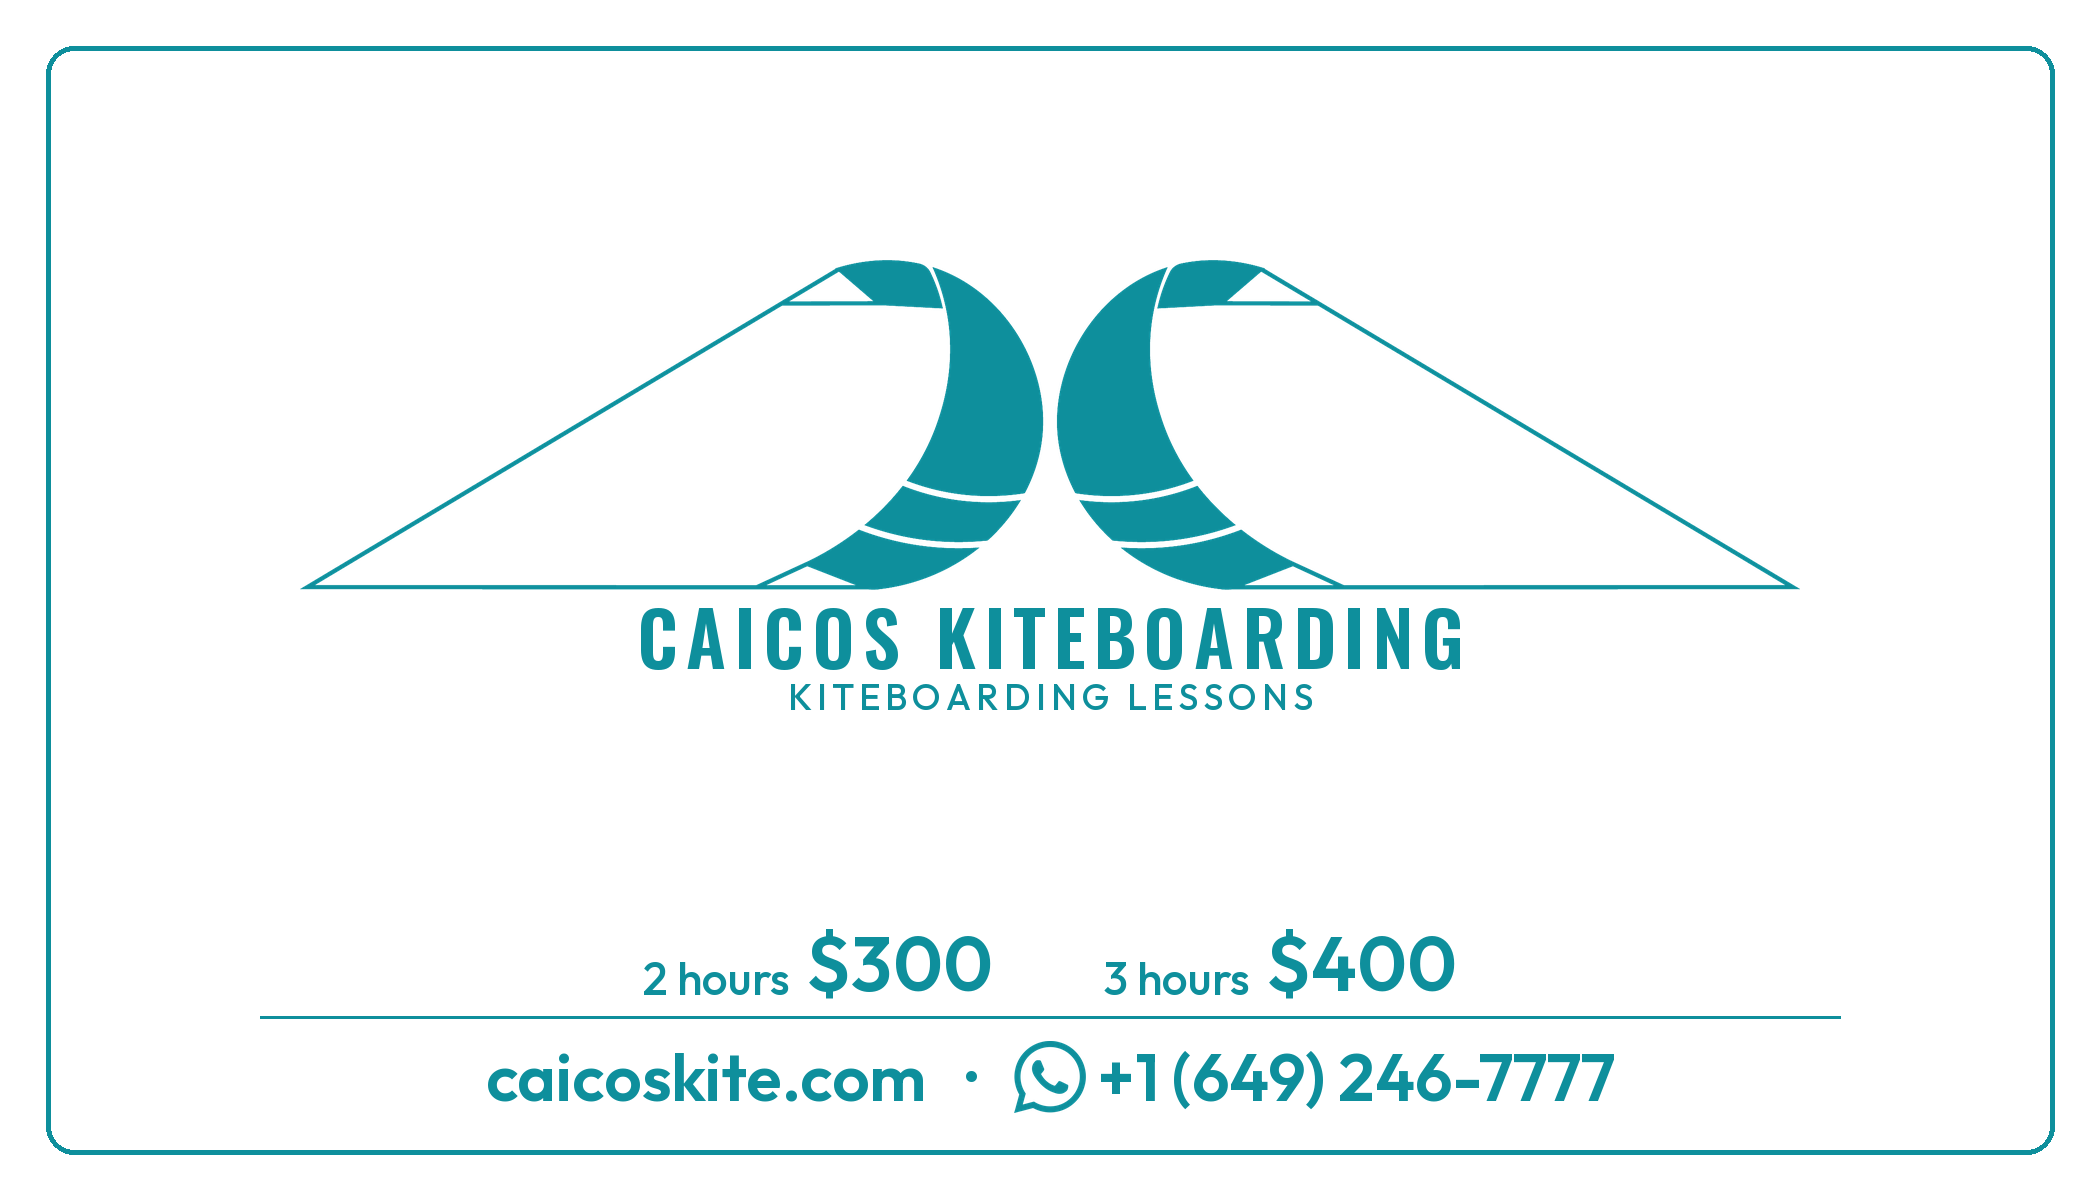
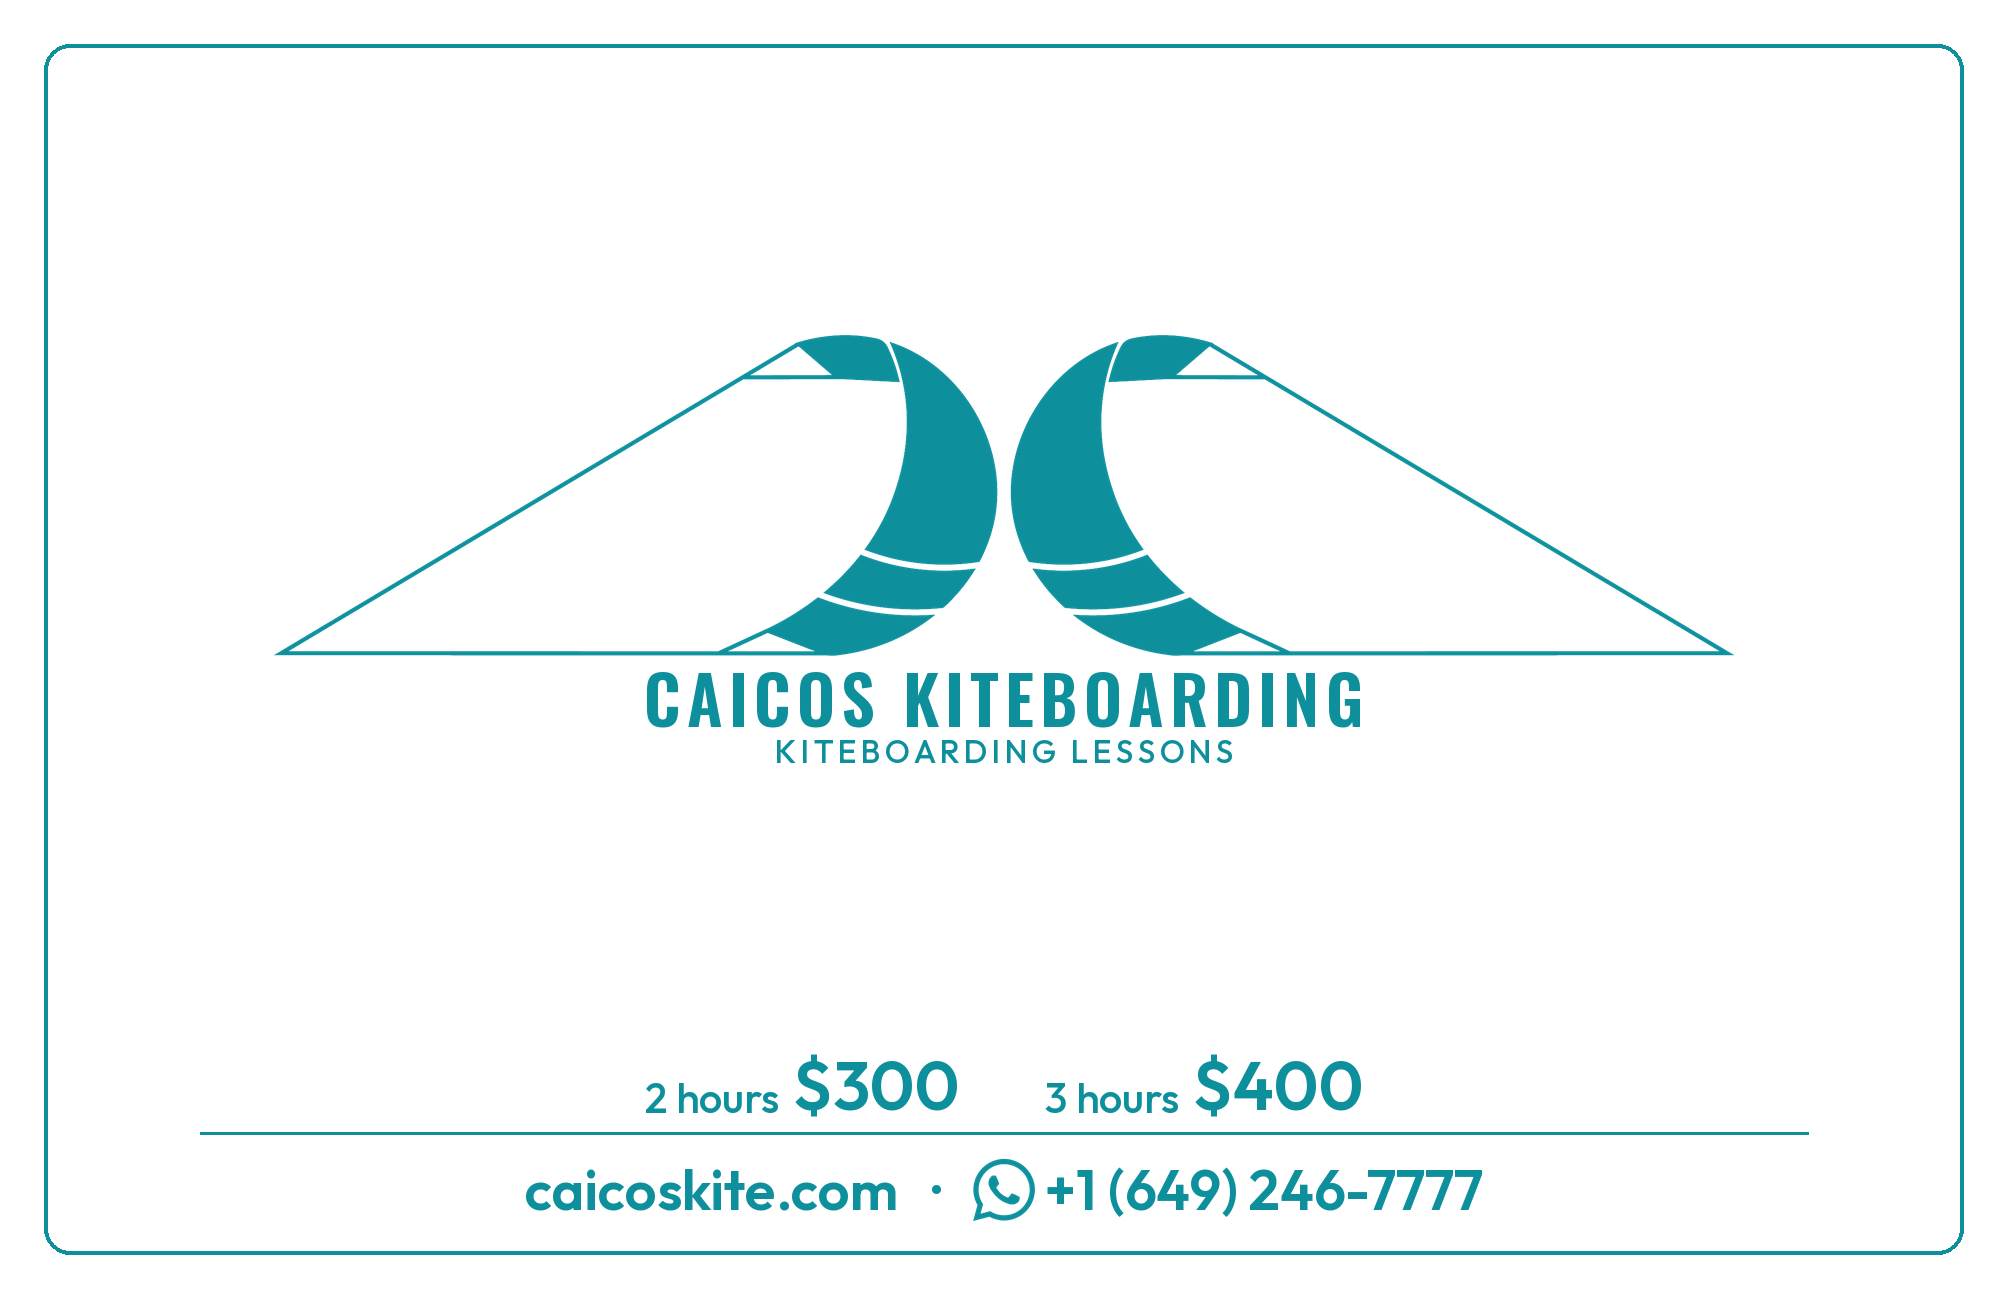
Reformat the business card to 85 by 55 mm

diff --git a/card.html b/card.html
@@ -10,6 +10,7 @@
   </style>
 </head>
 <body>
-  <img src="card.png?v=11" alt="Caicos Kiteboarding card in turquoise." />
+  <img src="card.png?v=12" alt="Caicos Kiteboarding card in turquoise." />
+<p style="text-align:center;font-family:sans-serif"><a href="card-print.png">Download print file (85 × 55 mm)</a></p>
 </body>
 </html>
